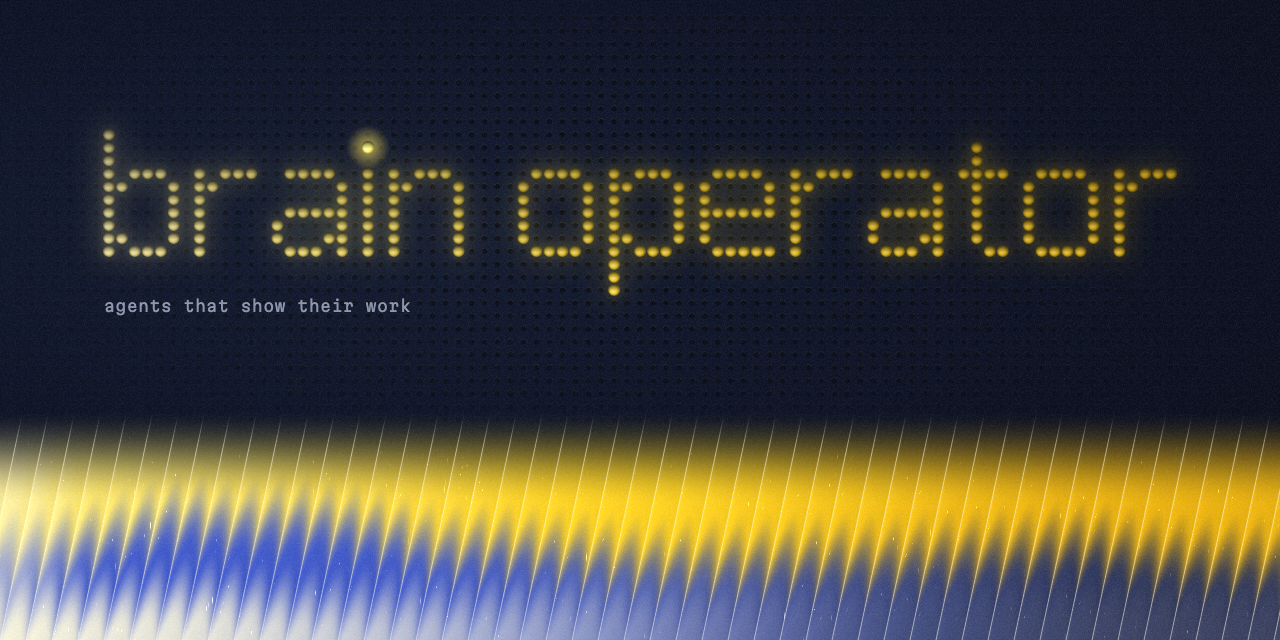
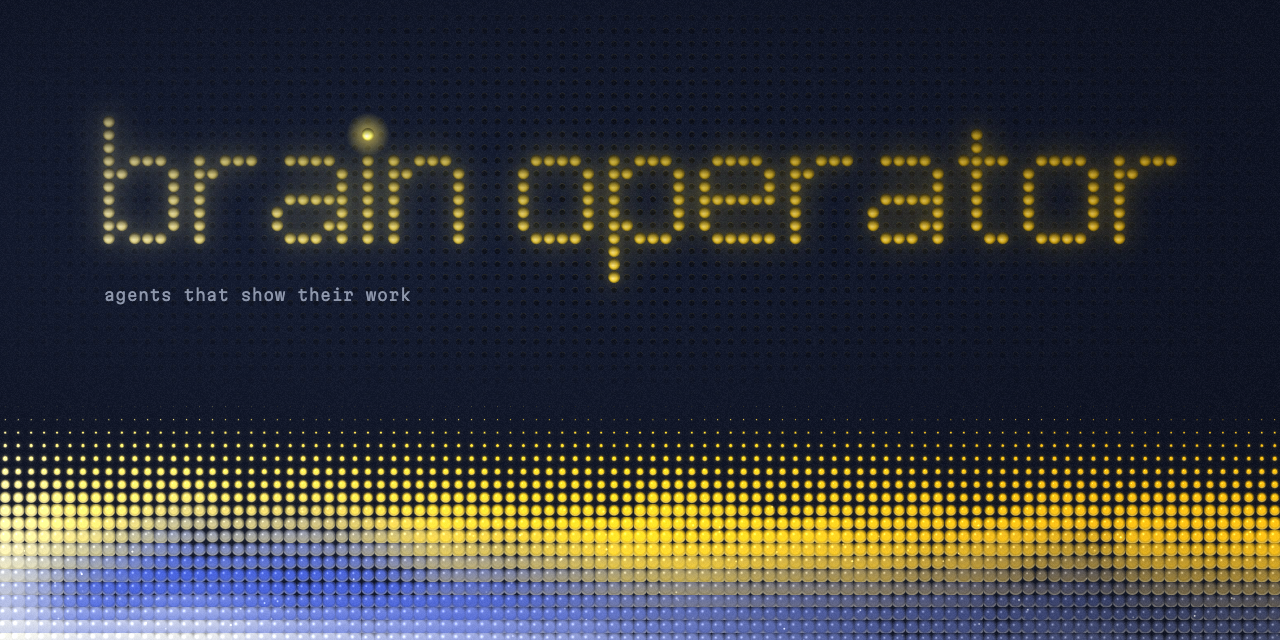
Brand: lens glass
- The glass is no longer reeded. The plate's holes continue into the
  light on the wordmark's grid and grow with its brightness, like a
  halftone; each hole is a small inverted lens.
- Banner, social preview and icon re-rendered.

diff --git a/README.md b/README.md
@@ -255,7 +255,7 @@ Receipts, not launch claims:
 
 ## Brand
 
-The identity lives in [`docs/brand/`](docs/brand): the banner, the social preview and the app icon. Midnight navy and yellow glass. The name is drawn in the same dots as the vault, and the only live dot is the one on the i.
+The identity lives in [`docs/brand/`](docs/brand): the banner, the social preview and the app icon. Midnight navy, and a plate of holes that open into yellow light like a halftone. The name is drawn on the same grid, and the only live dot is the one on the i.
 
 ## License
 
